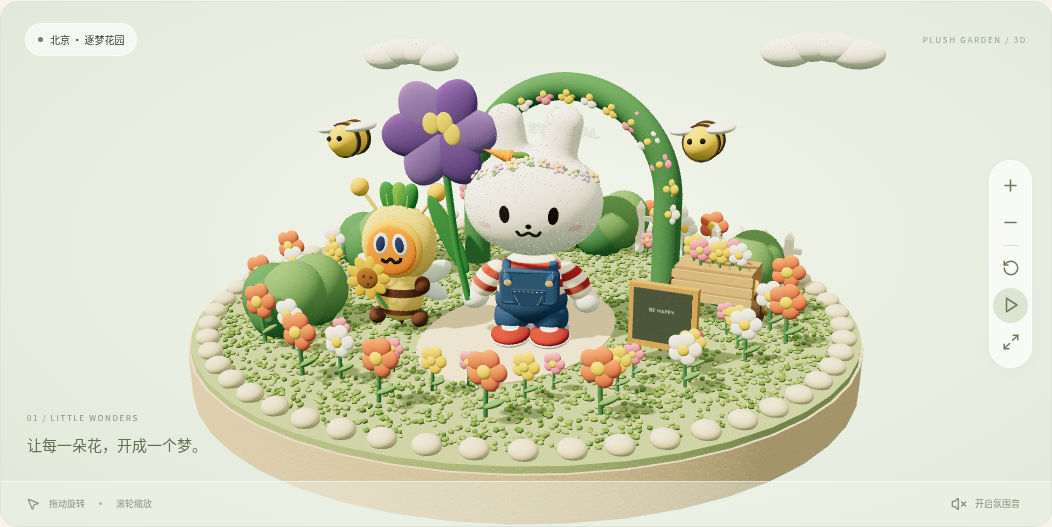
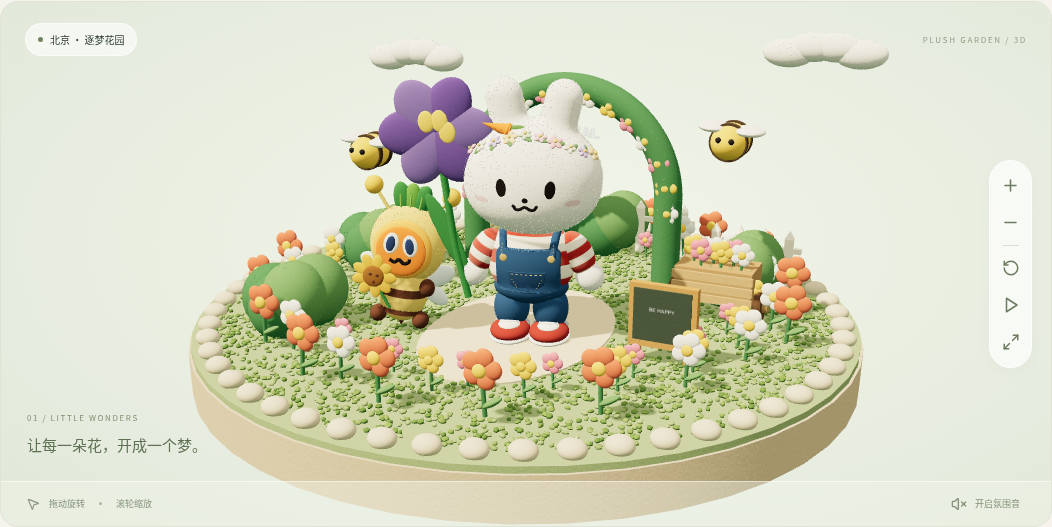
Refine rabbit anatomy from physical mascot reference

diff --git a/src/characters.js b/src/characters.js
@@ -1,8 +1,10 @@
 import * as T from 'three';
+import {TessellateModifier} from 'three/addons/modifiers/TessellateModifier.js';
+import {mergeVertices} from 'three/addons/utils/BufferGeometryUtils.js';
 import {addRabbitHead} from './rabbit-head';
 import {finishTextile} from './textiles';
 
-// Shared sculpted characters with video-inspired rounded toy proportions.
+// Shared sculpted characters with physical mascot proportions.
 function sculpt(parent, mat) {
   function mesh(geometry, color, x=0, y=0, z=0, p=parent) {
     const m=new T.Mesh(geometry,mat(color));m.position.set(x,y,z);
@@ -29,69 +31,96 @@ export function addRabbit(world,moving,mat,x,z,scale=1,theme=0) {
   const g=new T.Group();g.name='video-reference-rabbit';g.position.set(x,.2,z);g.scale.setScalar(scale);world.add(g);
   const {oval,stroke,patch,rounded,mesh}=sculpt(g,mat);
   const sitting=theme!==0,lake=theme===2;
-  const body=new T.Group();body.scale.set(.93,.80,.96);g.add(body);
+  const seatBottom=lake?.43:.40;
+  const body=new T.Group();g.add(body);
   // UV stripes follow the rounded shirt and sleeves, with no detached bands.
   function stripedFabric(bands) {
     const canvas=document.createElement('canvas');canvas.width=16;canvas.height=512;
     const ctx=canvas.getContext('2d');
     for(let row=0;row<512;row++) {
       const y=(Math.cos(Math.PI*(row+.5)/512)+1)/2;
-      ctx.fillStyle=Math.floor(y*bands)%2?'#fff9ed':'#b74035';ctx.fillRect(0,row,16,1);
+      // A red top band meets the head; a white polar band looked like a neck.
+      ctx.fillStyle=Math.floor(y*bands)%2?'#b74035':'#fff9ed';ctx.fillRect(0,row,16,1);
     }
     const texture=new T.CanvasTexture(canvas);texture.colorSpace=T.SRGBColorSpace;
     const fabric=mat(P.white).clone();fabric.map=texture;fabric.roughness=.88;if(theme===0)finishTextile(fabric,'canvas');return fabric;
   }
-  const shirtFabric=!lake?stripedFabric(8):null;
+  const shirtFabric=!lake?stripedFabric(6):null;
   const sleeveFabric=!lake?stripedFabric(6):null;
-  const torso=oval(lake?0x73a4be:P.white,0,.85,0,.49,.52,.33,body);
+  const torso=oval(lake?0x73a4be:P.white,0,.96,0,.55,.53,.35,body);
   if(shirtFabric)torso.material=shirtFabric;
   // Sleeve segments are attached to shoulder pivots so waving stays coherent.
   const arms=[];
   for(const side of [-1,1]) {
-    const arm=new T.Group();arm.position.set(side*.46,1.08,0);body.add(arm);arm.rotation.z=side*.54;arms.push(arm);
-    const sleeve=oval(lake?0x73a4be:P.white,0,-.24,0,.19,.35,.20,arm);
+    const arm=new T.Group();arm.position.set(side*.47,1.24,0);body.add(arm);arm.rotation.z=side*.50;arms.push(arm);
+    const sleeve=oval(lake?0x73a4be:P.white,0,-.21,0,.19,.30,.20,arm);
     if(sleeveFabric)sleeve.material=sleeveFabric;
-    oval(P.white,0,-.57,.015,.175,.20,.16,arm).name='plush-paw';
+    oval(P.white,0,-.53,.015,.175,.19,.16,arm).name='plush-paw';
   }
   if(lake) {
-    patch(rounded(-.46,.45,.92,.73,.1),0x73a4be,.19,.04,.04,body);
+    patch(rounded(-.46,.45,.92,.78,.1),0x73a4be,.19,.035,.025,body);
     for(const side of [-1,1]) {
-      const lapel=new T.Shape();lapel.moveTo(side*.06,1.24);lapel.lineTo(side*.35,1.19);lapel.lineTo(side*.19,.92);lapel.closePath();patch(lapel,0x94bbcf,.31,.025,.007,body);
+      const lapel=new T.Shape();lapel.moveTo(side*.06,1.38);lapel.lineTo(side*.35,1.27);lapel.lineTo(side*.19,1.03);lapel.closePath();patch(lapel,0x94bbcf,.30,.025,.007,body);
     }
     stroke(0x527d98,[[0,.46,.35],[0,1.05,.35]],.018,body);
     patch(rounded(.16,.73,.22,.19,.035),0x396788,.34,.02,.008,body);
     const emblem=mesh(new T.TorusGeometry(.10,.016,6,24),P.white,-.22,.84,.35,body);emblem.rotation.z=.4;
     stroke(P.white,[[-.27,.76,.35],[-.18,.92,.35]],.013,body);
   } else {
-    // Denim bib, blue shoulder straps, brass buttons, stitched front pocket.
-    oval(P.denim,0,.59,.02,.49,.40,.32,body);
-    const bib=patch(rounded(-.36,.64,.72,.49,.07),P.denim,.27,.075,.035,body);
-    const vertices=bib.geometry.attributes.position;
-    for(let i=0;i<vertices.count;i++)vertices.setZ(i,vertices.getZ(i)-.35*vertices.getX(i)**2);
-    bib.geometry.computeVertexNormals();
-    for(const side of [-1,1]) {
-      stroke(P.denim,[[side*.31,1.23,.15],[side*.30,1.08,.31],[side*.27,.98,.39]],.06,body);
-      oval(P.thread,side*.27,.99,.417,.053,.053,.018,body);
-      for(let i=0;i<5;i++)stroke(P.thread,[[side*.31,1.17-i*.038,.38],[side*.31,1.154-i*.038,.38]],.007,body);
+    // A shallow pelvis leaves two distinct legs, rather than a hanging belly.
+    oval(P.denim,0,.63,.015,.47,.23,.31,body);
+    function bodyFront(x,y) {
+      const shirt=.35*Math.sqrt(Math.max(0,1-(x/.55)**2-((y-.96)/.53)**2));
+      const trousers=.015+.31*Math.sqrt(Math.max(0,1-(x/.47)**2-((y-.63)/.23)**2));
+      return Math.max(shirt,trousers);
     }
-    const pocket=new T.Shape();pocket.moveTo(-.22,.87);pocket.lineTo(.22,.87);pocket.lineTo(.20,.69);pocket.quadraticCurveTo(0,.55,-.20,.69);pocket.closePath();patch(pocket,0x2e5075,.376,.018,.009,body);
-    for(let i=0;i<7;i++)stroke(P.thread,[[-.19+i*.058,.849,.41],[-.163+i*.058,.849,.41]],.007,body);
-    for(const side of [-1,1])for(let i=0;i<4;i++)stroke(P.thread,[[side*(.18-i*.018),.79-i*.04,.408],[side*(.175-i*.018),.769-i*.04,.408]],.007,body);
+    function fittedPatch(shape,color,offset,depth,bevel) {
+      const object=patch(shape,color,0,depth,bevel,body);
+      // Subdivide before bending: otherwise a broad front triangle cuts
+      // through the round shirt instead of following its curved surface.
+      const geometry=new TessellateModifier(.06,6).modify(object.geometry);
+      object.geometry.dispose();object.geometry=geometry;
+      const vertices=object.geometry.attributes.position;
+      for(let i=0;i<vertices.count;i++)vertices.setZ(i,vertices.getZ(i)+bodyFront(vertices.getX(i),vertices.getY(i))+offset);
+      object.geometry.deleteAttribute('normal');
+      const smooth=mergeVertices(object.geometry);object.geometry.dispose();object.geometry=smooth;
+      object.geometry.computeVertexNormals();
+      return object;
+    }
+    // Thin cloth follows the torso, including the pocket and its stitches.
+    fittedPatch(rounded(-.38,.65,.76,.52,.07),P.denim,.020,.035,.012);
+    for(const side of [-1,1]) {
+      stroke(P.denim,[[side*.34,1.34,-.14],[side*.34,1.39,.02],[side*.32,1.29,.19],[side*.29,1.08,bodyFront(side*.29,1.08)+.045]],.05,body);
+      oval(P.thread,side*.29,1.08,bodyFront(side*.29,1.08)+.092,.046,.046,.014,body);
+      for(let i=0;i<4;i++) {
+        const y=1.24-i*.036;
+        stroke(P.thread,[[side*.31,y,bodyFront(side*.31,y)+.09],[side*.31,y-.015,bodyFront(side*.31,y-.015)+.09]],.006,body);
+      }
+    }
+    const pocket=new T.Shape();pocket.moveTo(-.22,.91);pocket.lineTo(.22,.91);pocket.lineTo(.20,.75);pocket.quadraticCurveTo(0,.61,-.20,.75);pocket.closePath();fittedPatch(pocket,0x2e5075,.074,.012,.006);
+    function stitch(x0,y0,x1,y1) {stroke(P.thread,[[x0,y0,bodyFront(x0,y0)+.095],[x1,y1,bodyFront(x1,y1)+.095]],.006,body)}
+    for(let i=0;i<7;i++)stitch(-.19+i*.058,.889,-.163+i*.058,.889);
+    for(const side of [-1,1])for(let i=0;i<4;i++)stitch(side*(.18-i*.018),.83-i*.035,side*(.175-i*.018),.813-i*.035);
   }
   for(const side of [-1,1]) {
-    const leg=new T.Group();leg.position.set(side*.26,.47,0);body.add(leg);
-    if(sitting)leg.rotation.x=-.9;
-    oval(lake?0x6598b3:P.denim,0,-.18,.015,.245,.32,.25,leg);
-    oval(lake?0x87b2c8:0x9eb0bc,0,-.35,.04,.255,.09,.26,leg);
-    oval(lake?0x343536:P.white,0,-.45,.14,.285,.10,.40,leg);
-    oval(lake?0x343536:P.red,0,-.40,.18,.267,.14,.36,leg);
+    const leg=new T.Group();leg.position.set(side*.245,sitting?seatBottom+.225:.48,0);body.add(leg);
+    // Extend seated legs horizontally, with their soles facing forward.
+    // Their underside and the pelvis share the same support height.
+    if(sitting)leg.rotation.x=-Math.PI/2;
+    oval(lake?0x6598b3:P.denim,0,-.14,.015,.225,.29,.24,leg);
+    oval(lake?0x87b2c8:0x9eb0bc,0,-.36,.04,.23,.045,.24,leg);
+    oval(lake?0x343536:P.white,0,-.47,.13,.265,.065,.35,leg);
+    oval(lake?0x343536:P.red,0,-.40,.16,.25,.125,.31,leg);
     if(!lake) {
       oval(P.white,0,-.31,.23,.14,.06,.16,leg);
       for(let i=0;i<2;i++)stroke(P.white,[[-.115,-.30+i*.03,.23],[0,-.285+i*.03,.29],[.115,-.30+i*.03,.23]],.016,leg);
     }
   }
   oval(P.white,0,.61,-.33,.19,.18,.16,body).name='plush-tail';
-  const head=addRabbitHead(g,mat);head.scale.set(1.055,1,1.035);head.position.y=-.27;
+  // The chin sits directly on the shirt. Animate around this joint so a head
+  // tilt cannot pull the whole sculpture away from the shoulders.
+  const headPivot=new T.Group();headPivot.position.y=1.36;g.add(headPivot);
+  const head=addRabbitHead(headPivot,mat);head.scale.set(1.055,1,1.035);head.position.y=-1.34;
   // Garden iris and lake lotus leaf umbrella are held by the left hand.
   let plant=null;
   if(theme===0) {
@@ -106,8 +135,9 @@ export function addRabbit(world,moving,mat,x,z,scale=1,theme=0) {
     for(let i=0;i<7;i++) {const a=i*Math.PI*2/7;stroke(0x529636,[[-.1,2.64,0],[-.1+Math.cos(a)*.42,2.65,Math.sin(a)*.31],[-.1+Math.cos(a)*.85,2.59,Math.sin(a)*.57]],.014,plant)}
     oval(0xe9f8d9,.2,2.67,.12,.075,.035,.07,plant);
   }
-  const baseY=sitting?.40:.2;
-  moving.push(t=>{g.position.y=baseY+Math.sin(t*1.7)*.026;g.rotation.y=.32+Math.sin(t*.65)*.045;arms[1].rotation.z=.52+Math.sin(t*1.6)*.045;head.rotation.z=Math.sin(t*.72)*.018;if(plant)plant.rotation.z=.08+Math.sin(t*.8)*.025});
+  const baseY=sitting?.565-seatBottom*scale:.2;g.position.y=baseY;
+  // Keep feet/the seated pelvis planted while the head, arms and prop move.
+  moving.push(t=>{g.rotation.y=.32+Math.sin(t*.65)*.045;arms[1].rotation.z=.50+Math.sin(t*1.6)*.045;headPivot.rotation.z=Math.sin(t*.72)*.018;if(plant)plant.rotation.z=.08+Math.sin(t*.8)*.025});
   return g;
 }
 

diff --git a/src/rabbit-head.js b/src/rabbit-head.js
@@ -1,7 +1,7 @@
 import * as T from 'three';
 import { MarchingCubes } from 'three/addons/objects/MarchingCubes.js';
 
-const HEAD = { x: .80, y: .66, z: .60, cy: 1.98 };
+const HEAD = { x: .80, y: .70, z: .60, cy: 1.98 };
 const WHITE = 0xfffcf3;
 const INK = 0x211d1b;
 let headTemplate;
@@ -20,7 +20,11 @@ function smoothUnion(a, b, blend) {
 }
 
 function sculptureDistance(x, y, z) {
-  let d = ellipsoidDistance(x, y - HEAD.cy, z, HEAD.x, HEAD.y, HEAD.z);
+  const dy = y - HEAD.cy;
+  // The physical mascot has full lower cheeks and a soft, flatter chin.
+  // Keep the upper head elliptical and broaden only the lower half.
+  const shapedY = dy < 0 ? -HEAD.y * (Math.abs(dy) / HEAD.y) ** 1.2 : dy;
+  let d = ellipsoidDistance(x, shapedY, z, HEAD.x, HEAD.y, HEAD.z);
   for (const side of [-1, 1]) {
     const angle = -side * .18;
     const dx = x - side * .31, dy = y - 2.79;
@@ -77,7 +81,7 @@ function headGeometry(material) {
 }
 
 function frontSurface(x, y) {
-  const q = 1 - (x / HEAD.x) ** 2 - ((y - HEAD.cy) / HEAD.y) ** 2;
+  const q = 1 - (x / HEAD.x) ** 2 - Math.abs((y - HEAD.cy) / HEAD.y) ** (y < HEAD.cy ? 2.4 : 2);
   return HEAD.z * Math.sqrt(Math.max(q, .001));
 }
 

diff --git a/docs/previews/README.md b/docs/previews/README.md
@@ -2,7 +2,9 @@
 
 这里展示当前程序在浏览器中的实际渲染效果，区别于 [风格概念图](../concepts/README.md)。
 
-兔子采用选定预览图中的大头、短身、短四肢比例。第一个场景使用短绒纤维、布料纹理、毛毡花草和柔软绒簇地面；保留花环、背带裤缝线和蜜蜂装胡萝卜。
+兔子参考实体公仔重新调整肩颈衔接和身体比例：下脸颊更饱满，头部直接接在条纹上衣上，躯干不再压缩，背带裤沿身体曲面贴合，裤腰收小并露出完整双腿。保留花环、牛仔缝线和蜜蜂装胡萝卜。
+
+第一个场景仍使用短绒纤维、布料纹理、毛毡花草和柔软绒簇地面。下面的模型近景与公园使用同一份 Three.js 模型代码。
 
 ## 花园实机截图
 
@@ -11,6 +13,10 @@
 ## 同一兔子模型的近景
 
 ![毛绒兔子近景](plush-rabbit.png)
+
+## 侧面衔接
+
+![毛绒兔子侧面，头部直接衔接肩部](plush-rabbit-side.png)
 
 ## 手机页面
 

diff --git a/README.md b/README.md
@@ -25,7 +25,7 @@ npm run preview -- --port 3000
 ## 交互
 
 - 三个场景自由切换，包含小兔、花草、蜜蜂、游船、水波与热气球动画。
-- 兔子按选定概念图调整为大头、短身、短四肢比例，保留连续立体头部、胶囊兔耳、贴合曲面的五官与花环。
+- 兔子参考实体公仔调整头身比例：饱满脸颊、平缓下巴直接衔接条纹上衣，完整躯干与两条裤腿；保留连续立体兔耳、贴合曲面的五官、花环与背带裤。头部摆动以肩颈连接处为轴。
 - 第一个场景采用毛绒与毛毡风格：真实短纤维轮廓、程序化布料纹理、牛仔缝线、毛毡植物、草地及蜜蜂装胡萝卜。
 - 毛绒纤维通过实例化绘制；动画最高 30 帧/秒，花园阴影按需刷新，暂停时只在视角变化后绘制。无需额外外部素材。
 - 右侧工具支持缩放、视角复位、暂停与全屏。
